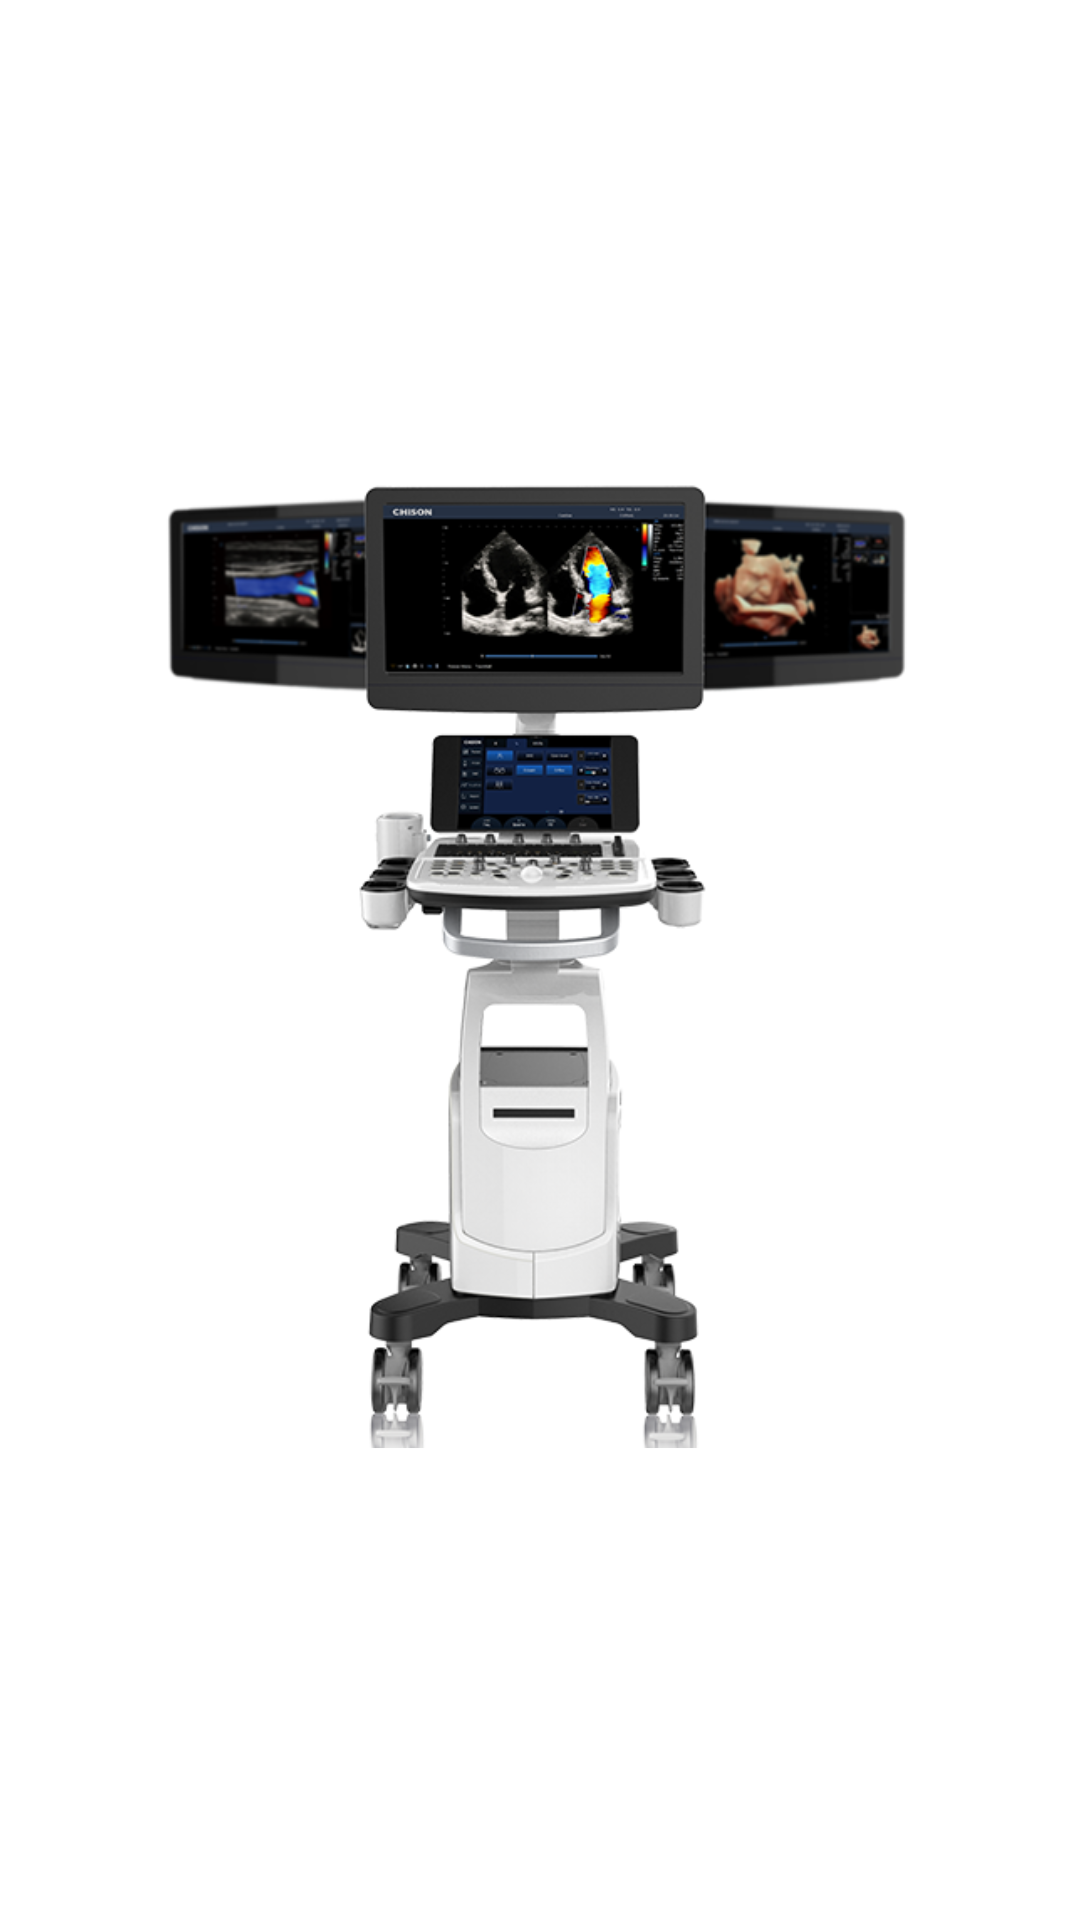
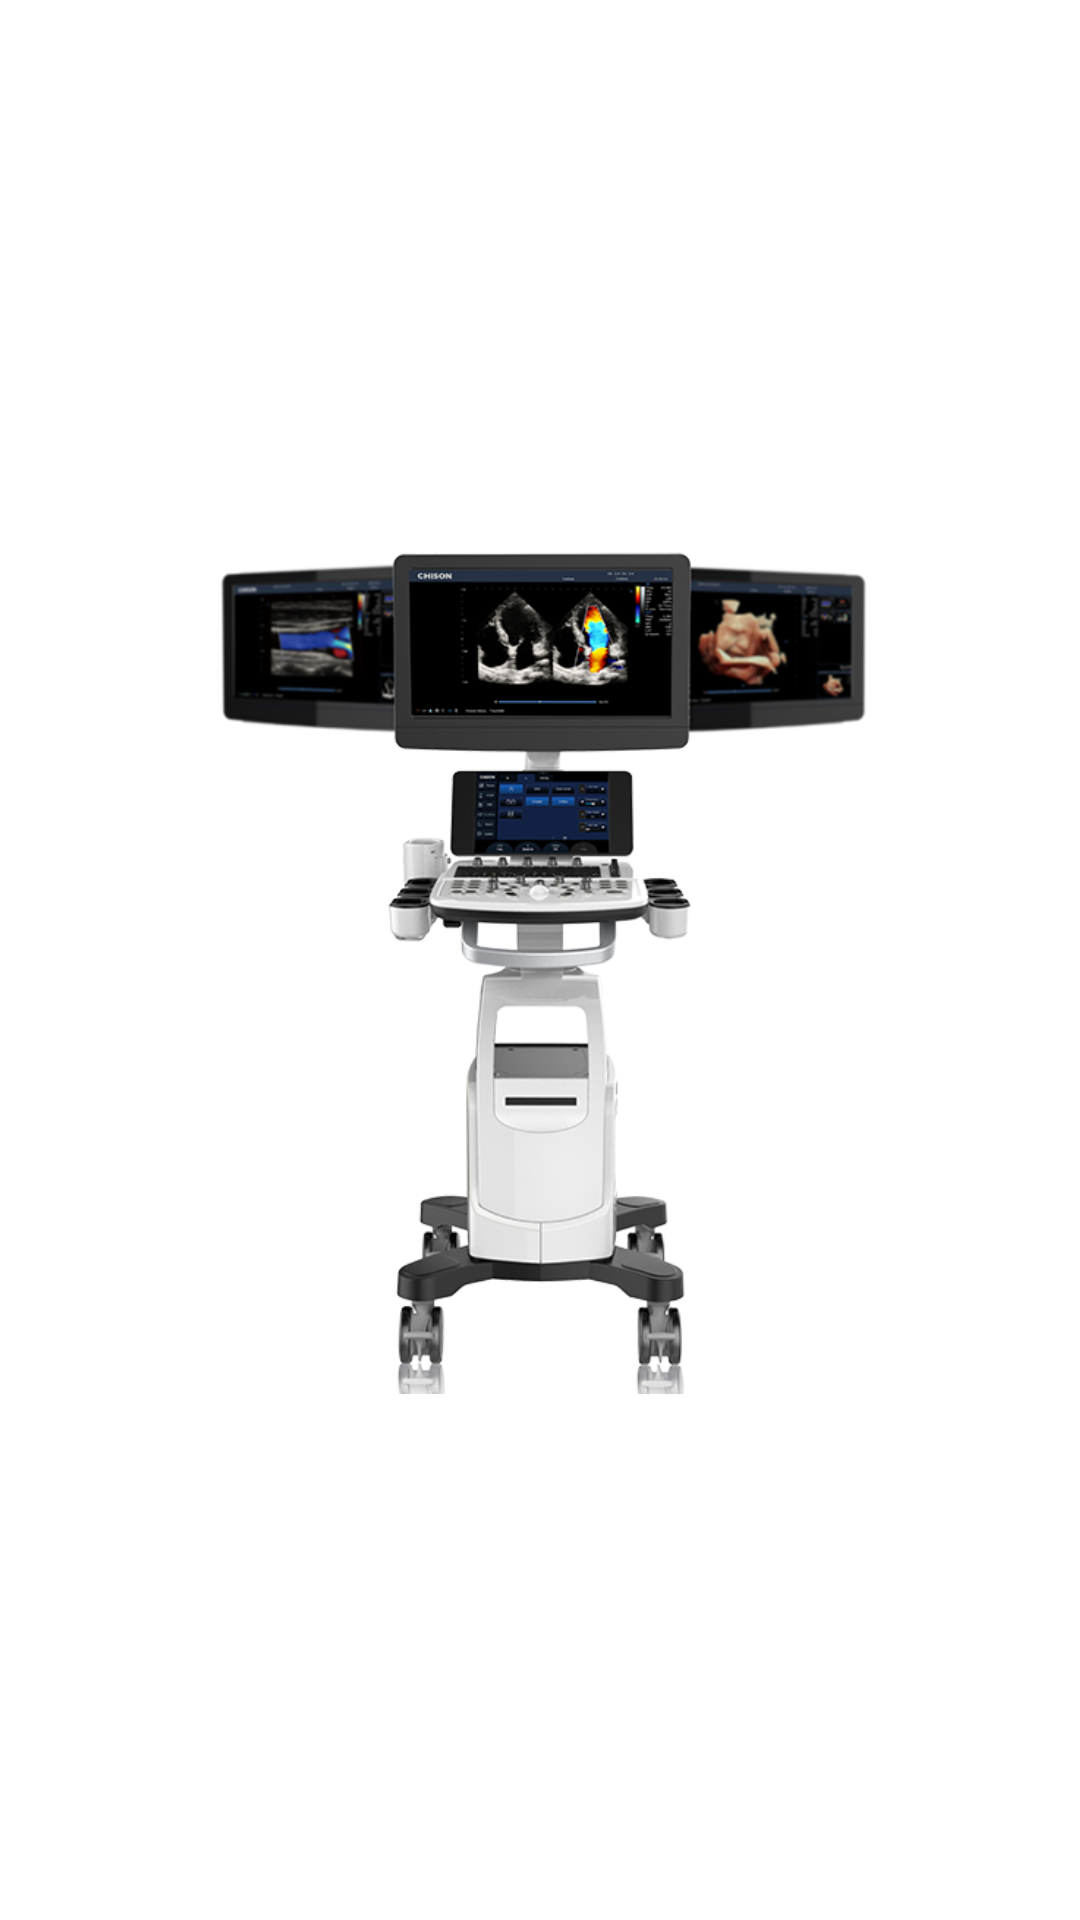
Card actualizacion imagenes

Changed region(s): [[0.1528, 0.25, 0.8556, 0.7812]]

diff --git a/src/app/equipos/equipos.component.css b/src/app/equipos/equipos.component.css
@@ -88,7 +88,7 @@
     height: 200px;
     border-radius: 5px;
 }
-
+/* de aqui  */
 /* Equipo terason 3300 */
 #terason3300{
     display: flex;

diff --git a/src/app/card/card.component.css b/src/app/card/card.component.css
@@ -20,5 +20,5 @@
 }
 
 .container img:hover{
-    width: 50%;
+    width: 40%;
 }
